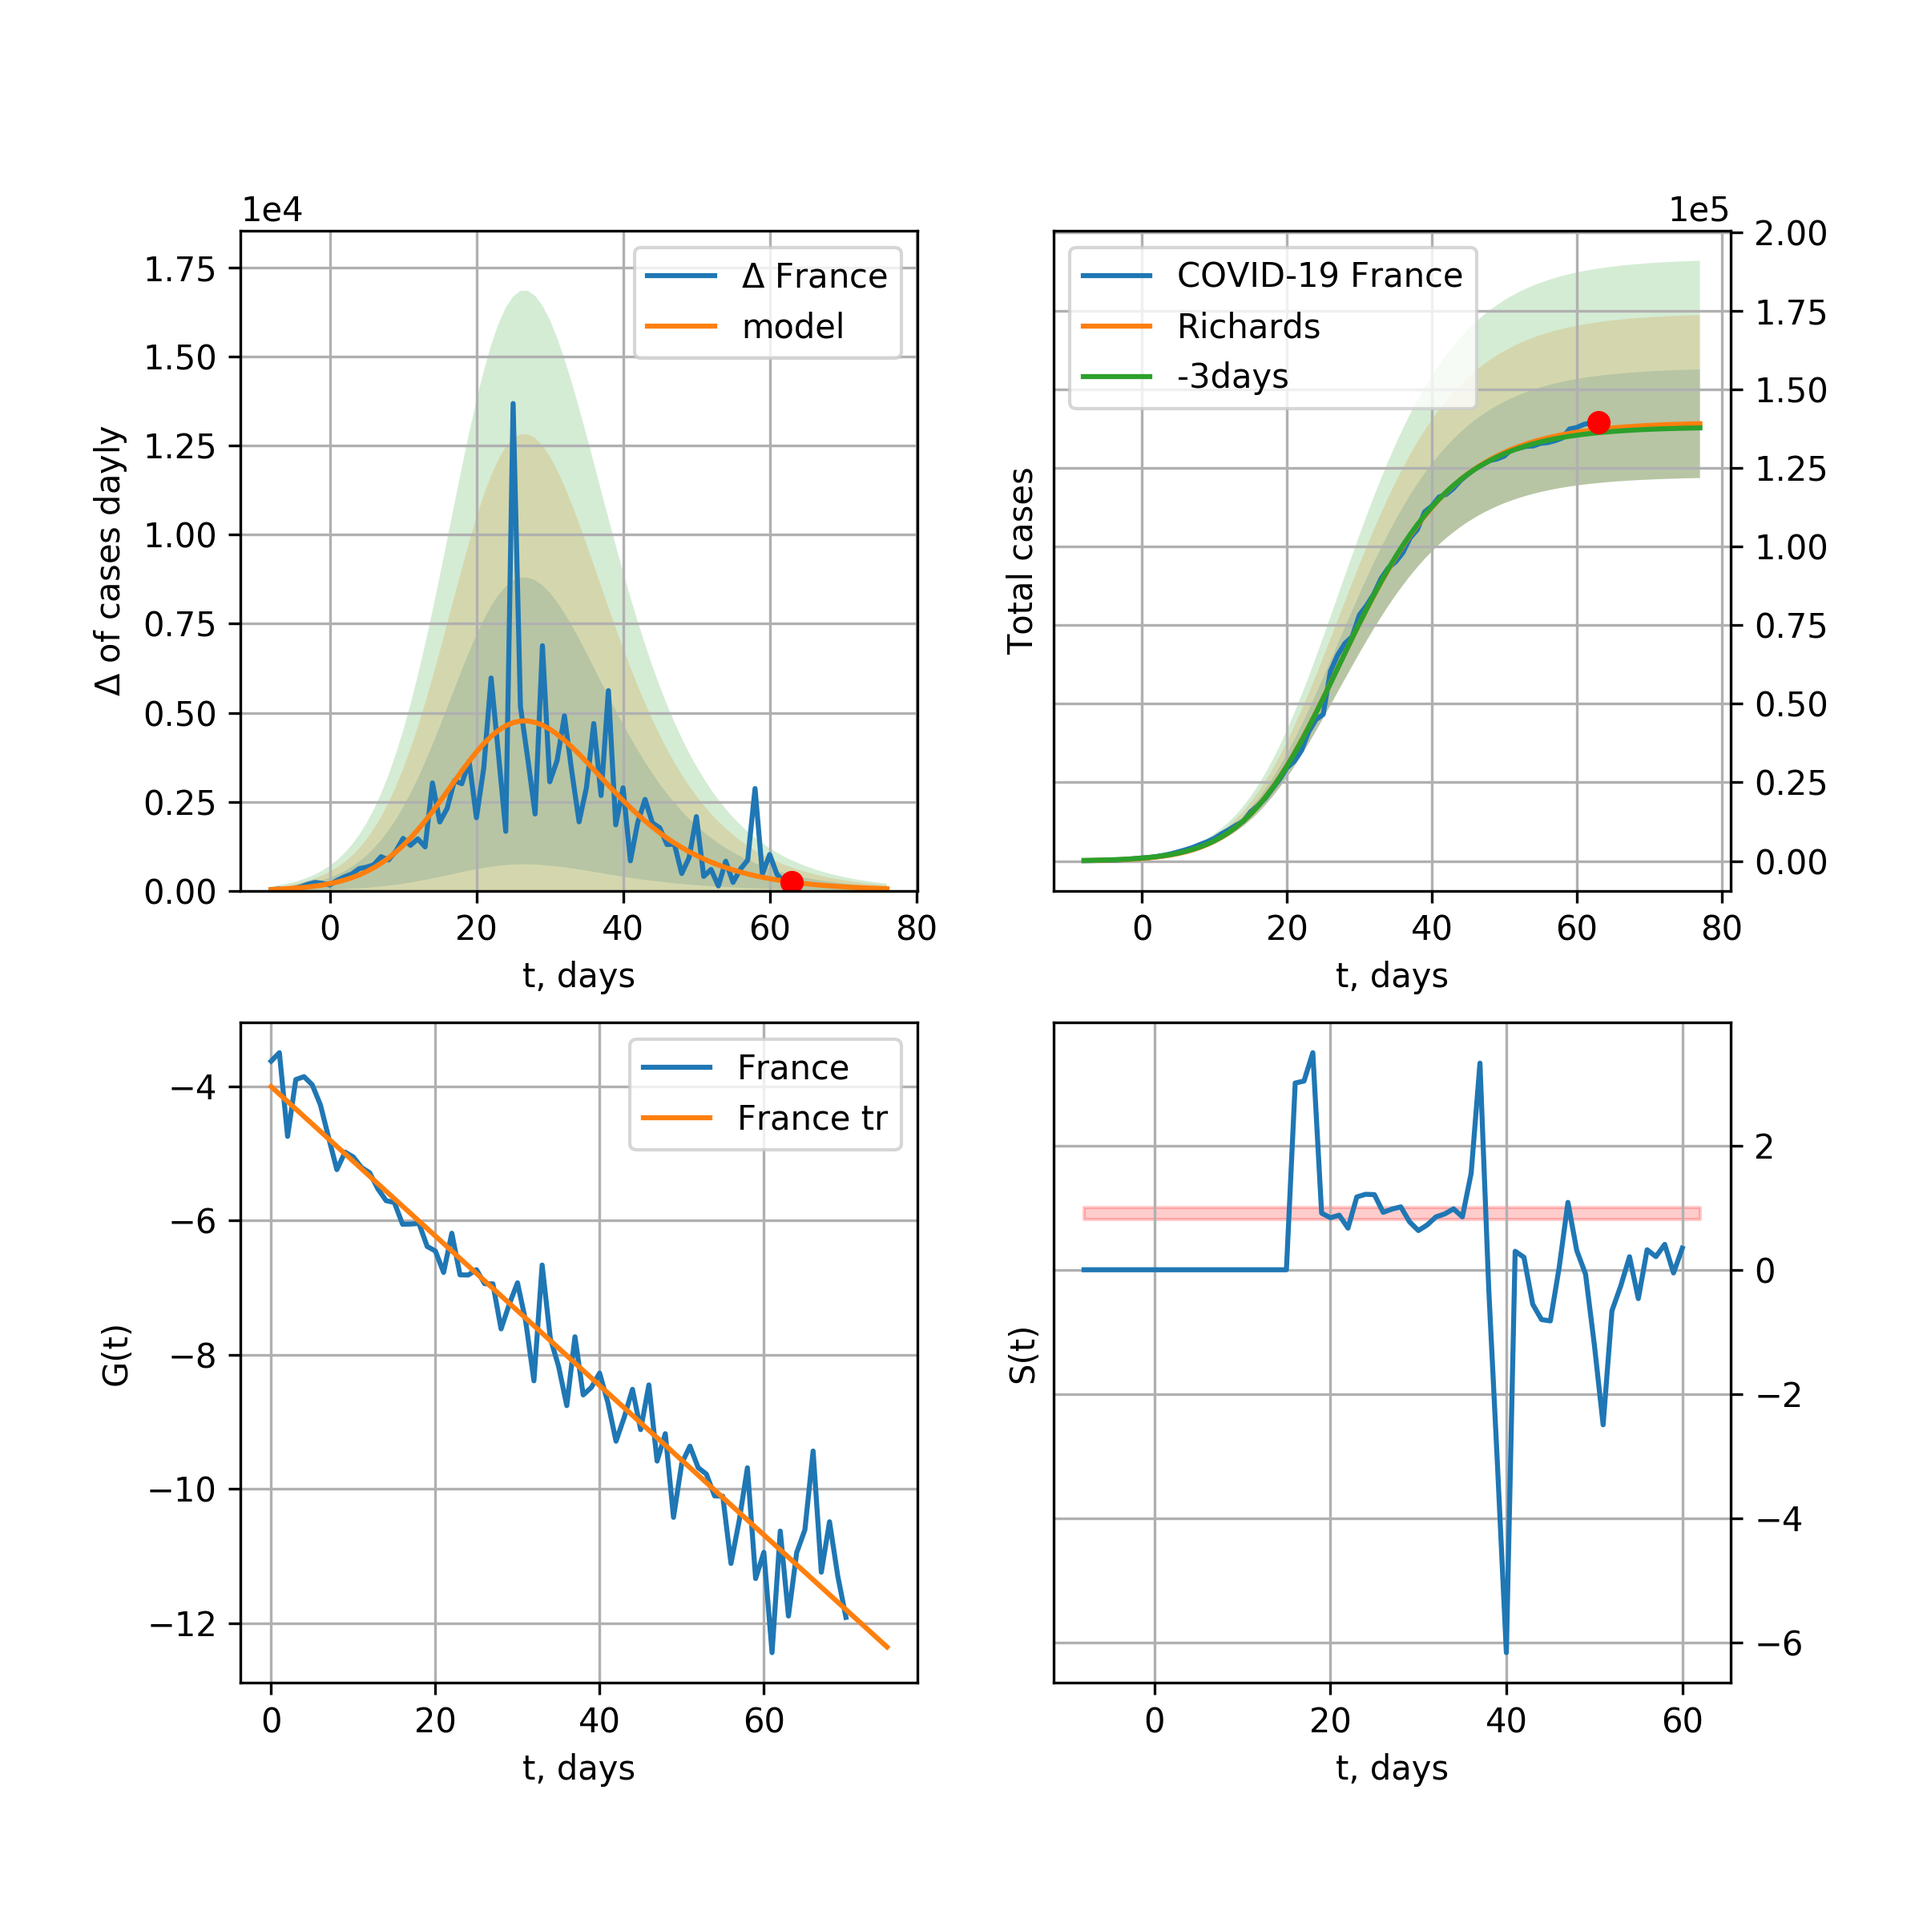
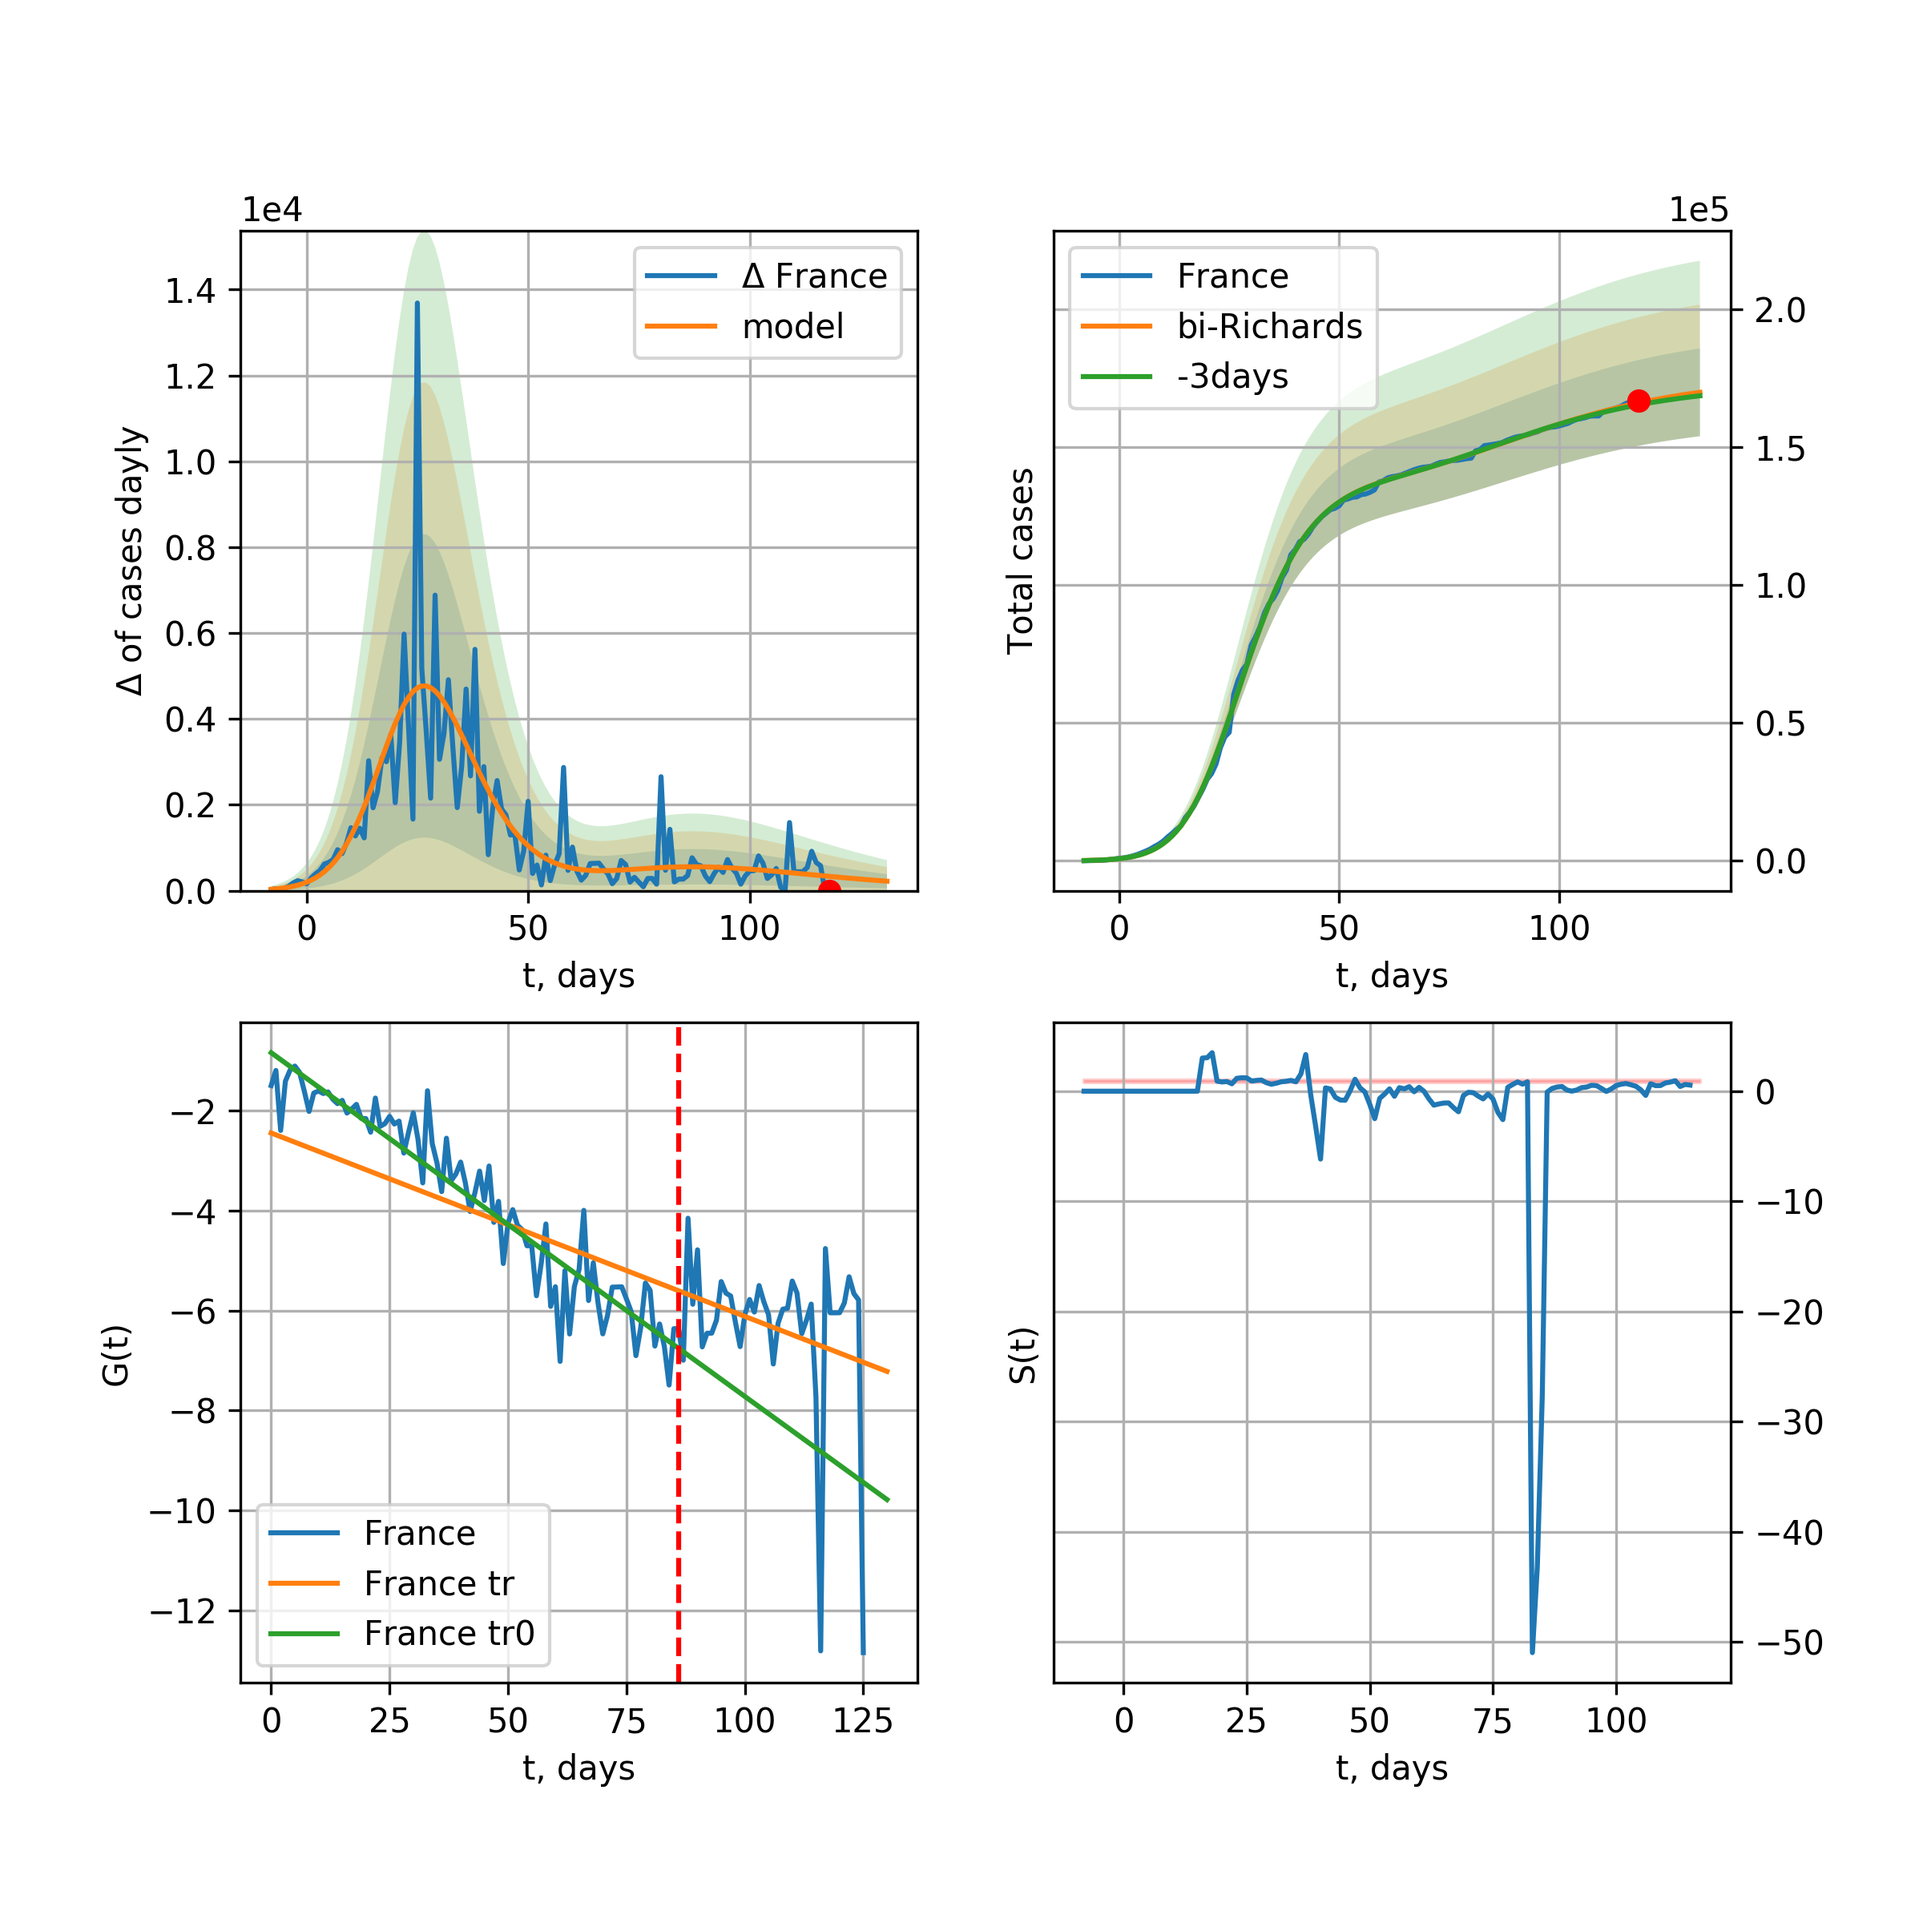
FR renew 2020-07-04

diff --git a/_site/index.html b/_site/index.html
@@ -276,17 +276,20 @@ trend coefficient of determination: 0.977117 <br />
     <img src="pictures/covidcasesFrance36_R.png" alt="hi" class="inline"/><br /> 
 
       France data at: 2020-07-04<br />
-+3 day model MAPE: 0.007986<br />
-model: Richards<br />
-coeffs: [1.39530079e+05 2.42709630e-01 2.04374273e+01 4.70589839e-01]<br />
-rational stdev: 0.124192<br />
++3 day model MAPE: 0.004418<br />
+model: bi-Richards<br />
+coeffs: [ 3.61721975e+04  3.90532492e+00 -2.13687416e+01  1.05159849e-02]<br />
+rational stdev: 0.093594<br />
 forecast at the end of period: +14 days<br />
-	 deltaDaycases: 55<br />
-	 total cases: 139067 ± 17271<br />
-	 total death: 24899 ± 9276<br />
-trend coefficient of determination: 0.951177 <br />
- intercept: -4.003023 <br />
- slope: -0.111381<br />
+	 deltaDaycases: 221<br />
+	 total cases: 169903 ± 15901<br />
+	 total death: 30419 ± 8541<br />
+bi-Richards approximation splitting point: 86<br />
+trend coefficient of determination: 0.904048 <br />
+ intercept: -0.836908 <br />
+ slope: -0.068809<br />trend coefficient of determination: 0.068530 <br />
+ intercept: -2.444437 <br />
+ slope: -0.036708<br />
           <br /> 
     
     Germany
